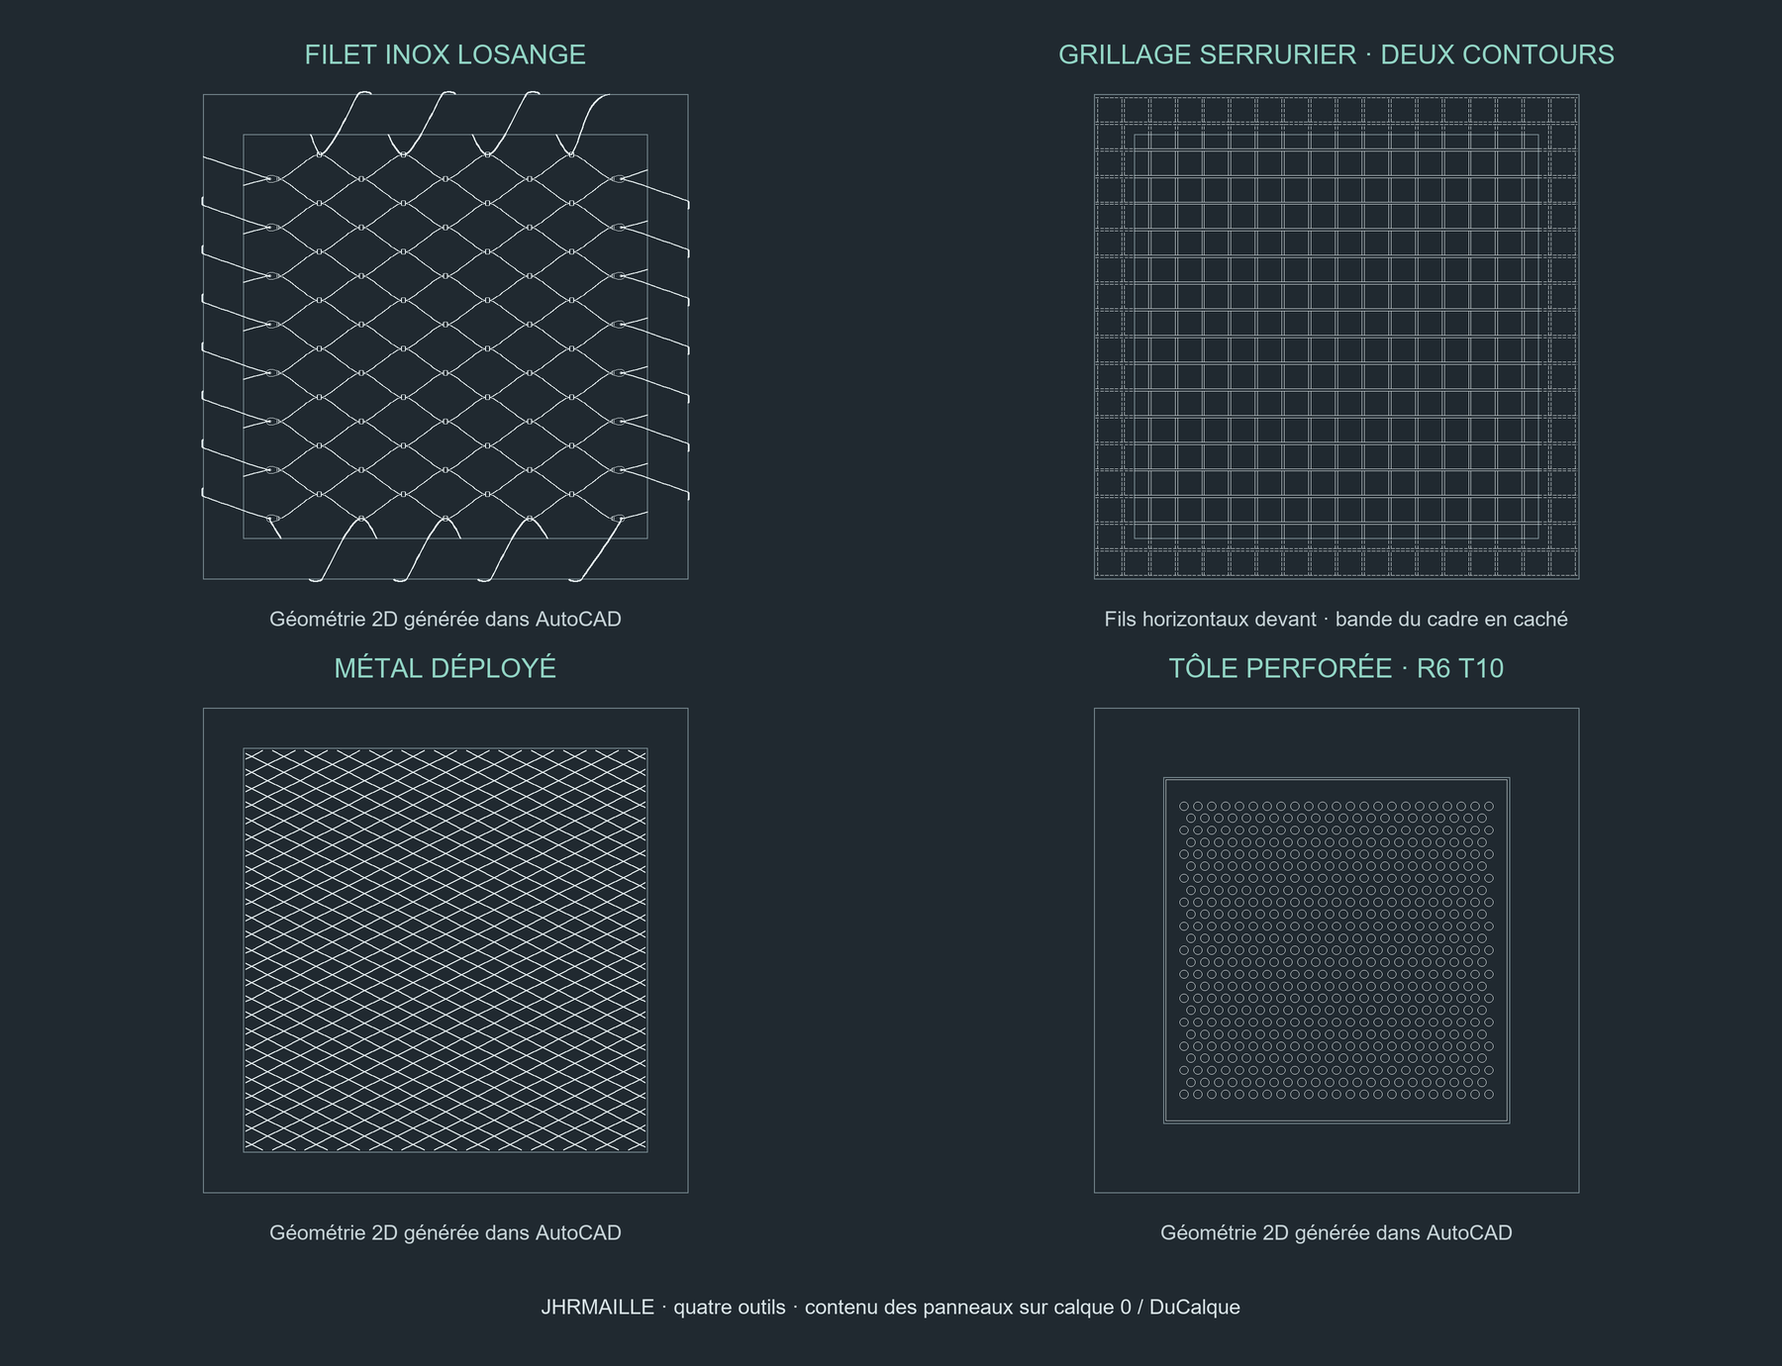
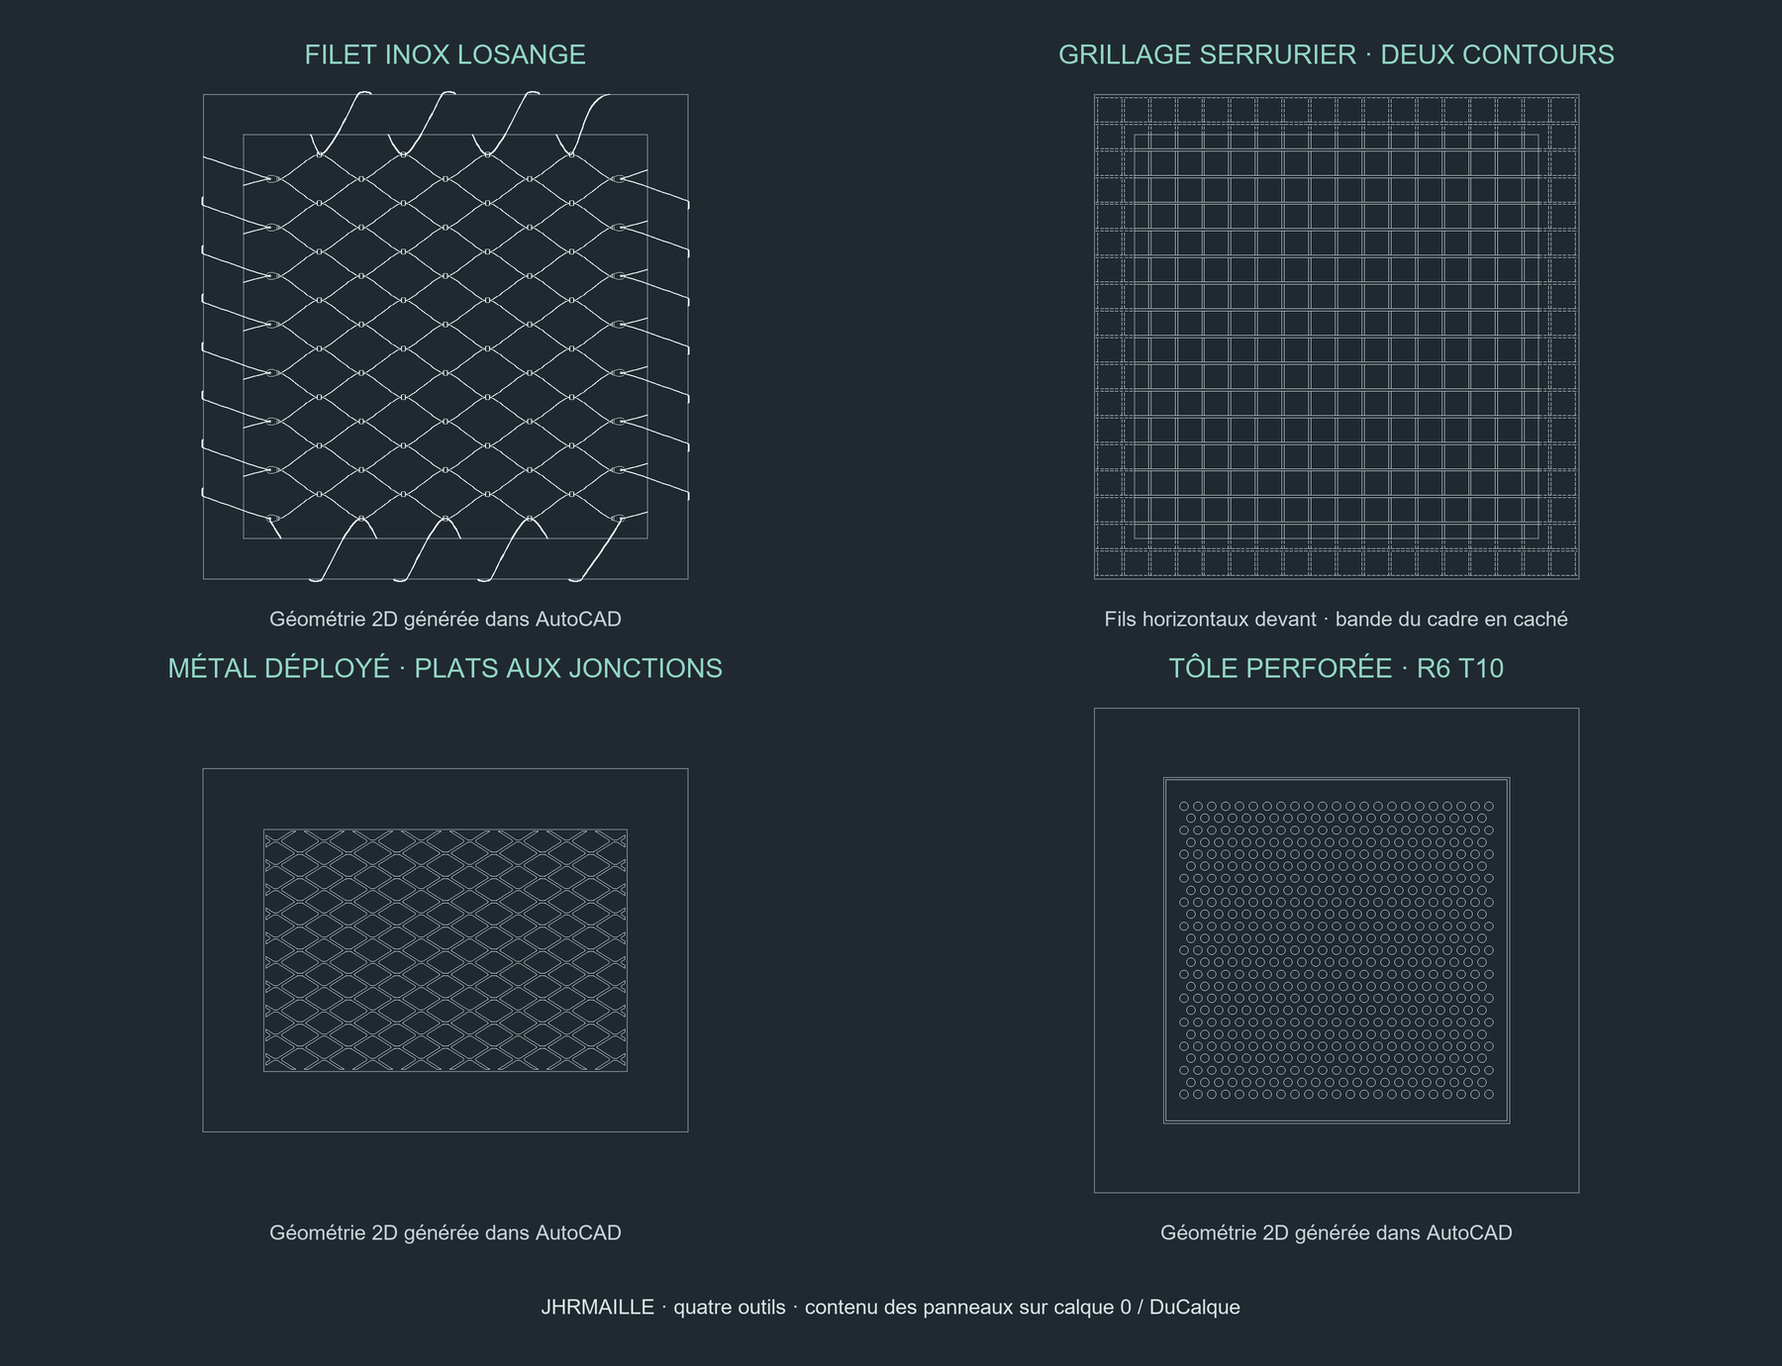
Corrige le metal deploye avec plats de jonction et contours adoucis

Changed region(s): [[0.1244, 0.5297, 0.3733, 0.8413], [0.0933, 0.4674, 0.4044, 0.4986]]

diff --git a/JHRMaille2D/Interface/ExpandedGeometry.cs b/JHRMaille2D/Interface/ExpandedGeometry.cs
@@ -1,0 +1,57 @@
+namespace JhrMailleUi;
+public readonly record struct ExpandedPoint(double X,double Y)
+{
+ public static ExpandedPoint operator +(ExpandedPoint a,ExpandedPoint b)=>new(a.X+b.X,a.Y+b.Y);
+ public static ExpandedPoint operator -(ExpandedPoint a,ExpandedPoint b)=>new(a.X-b.X,a.Y-b.Y);
+ public static ExpandedPoint operator *(ExpandedPoint a,double t)=>new(a.X*t,a.Y*t);
+ public double Length=>Math.Sqrt(X*X+Y*Y);
+ public PointF Pixel(float scale)=>new((float)X*scale,(float)Y*scale);
+}
+public static class ExpandedGeometry
+{
+ public static double Bond(PatternSettings s)=>s.Margin>0?s.Margin:Math.Min(.35*s.A,Math.Max(2*s.Wire,Math.Min(.12*s.A,.25*s.B)));
+ static double Cross(ExpandedPoint a,ExpandedPoint b)=>a.X*b.Y-a.Y*b.X;
+ public static ExpandedPoint[] Hole(PatternSettings s)
+ {
+  double sx=s.A/2,sy=s.B/2,half=Bond(s)/2;
+  ExpandedPoint[] points=[new(-(sx-half),0),new(-half,sy),new(half,sy),new(sx-half,0),new(half,-sy),new(-half,-sy)];
+  Array.Reverse(points);
+  var lines=points.Select((p,i)=>{
+   var d=points[(i+1)%points.Length]-p;var n=new ExpandedPoint(-d.Y,d.X)*(s.Wire/2/d.Length);
+   return (P:p+n,D:d);
+  }).ToArray();
+  var inset=new ExpandedPoint[points.Length];
+  for(int i=0;i<points.Length;i++){
+   var previous=lines[(i+lines.Length-1)%lines.Length];var current=lines[i];
+   double t=Cross(current.P-previous.P,current.D)/Cross(previous.D,current.D);
+   inset[i]=previous.P+previous.D*t;
+  }
+  var rounded=new List<ExpandedPoint>();
+  for(int i=0;i<inset.Length;i++){
+   var cur=inset[i];var incoming=inset[(i+inset.Length-1)%inset.Length]-cur;var outgoing=inset[(i+1)%inset.Length]-cur;
+   double offset=Math.Min(.65*s.Wire,Math.Min(.2*incoming.Length,.2*outgoing.Length));
+   var a=cur+incoming*(offset/incoming.Length);var b=cur+outgoing*(offset/outgoing.Length);
+   for(int j=0;j<=4;j++){double t=j/4d;rounded.Add(a*((1-t)*(1-t))+cur*(2*t*(1-t))+b*(t*t));}
+  }
+  return rounded.ToArray();
+ }
+ public static void Paint(Graphics g,Rectangle view,PatternSettings s,float scale)
+ {
+  var extent=new RectangleF(-view.Width-view.Height,-view.Width-view.Height,2*(view.Width+view.Height),2*(view.Width+view.Height));
+  using var path=new System.Drawing.Drawing2D.GraphicsPath(System.Drawing.Drawing2D.FillMode.Alternate);path.AddRectangle(extent);
+  var holes=new List<PointF[]>();var shape=Hole(s);float sx=(float)s.A*scale/2,sy=(float)s.B*scale/2;
+  int cols=(int)Math.Ceiling((view.Width+view.Height)/sx)+2,rows=(int)Math.Ceiling((view.Width+view.Height)/sy)+2;
+  if((long)(2*cols+1)*(2*rows+1)>9000){using var f=new Font("Segoe UI",10);using var b=new SolidBrush(Color.DimGray);g.DrawString("Maille très allongée : aperçu de détail indisponible.",f,b,-view.Width/2f+20,0);return;}
+  // Close material preview: centre pitches remain exact even when the detail is cropped.
+  for(int row=-rows;row<=rows;row++)for(int col=-cols;col<=cols;col++){
+   if((row+col)%2==0)continue;
+   var hole=shape.Select(p=>new PointF((float)p.X*scale+col*sx,(float)p.Y*scale+row*sy)).ToArray();
+   path.AddPolygon(hole);holes.Add(hole);
+  }
+  using var background=new SolidBrush(Color.FromArgb(20,25,25));g.FillRectangle(background,extent);
+  using var metal=new System.Drawing.Drawing2D.LinearGradientBrush(extent,Color.FromArgb(205,212,210),Color.FromArgb(124,135,132),35);g.FillPath(metal,path);
+  using var edge=new Pen(Color.FromArgb(s.Pattern==1?102:147,158,154),Math.Max(.7f,scale*.12f));
+  using var highlight=new Pen(Color.FromArgb(213,222,218),Math.Max(.6f,scale*.08f));
+  foreach(var hole in holes){g.DrawPolygon(edge,hole);if(s.Pattern==1)for(int i=0;i<hole.Length;i++){var a=hole[i];var b=hole[(i+1)%hole.Length];if(b.X>a.X)g.DrawLine(highlight,new PointF(a.X-.6f,a.Y-.6f),new PointF(b.X-.6f,b.Y-.6f));}}
+ }
+}

diff --git a/JHRMaille2D/Interface/PatternPreview.cs b/JHRMaille2D/Interface/PatternPreview.cs
@@ -13,7 +13,7 @@ public static class PatternRenderer
 {
     public static string Designation(FillTool tool,PatternSettings s)=>tool switch{
         FillTool.Square=>$"Grillage soudé {s.A:g} × {s.A:g} mm libre · fil Ø{s.Wire:g} · entraxe {s.A+s.Wire:g} mm",
-        FillTool.Expanded=>$"Déployé ML {s.A:g} × MW {s.B:g} · lanière {s.Wire:g} · ép. {s.Thickness:g} mm",
+        FillTool.Expanded=>$"Déployé ML {s.A:g} × MW {s.B:g} · lanière {s.Wire:g} · plat {ExpandedGeometry.Bond(s):g} · ép. {s.Thickness:g} mm",
         _=>$"{(s.Pattern==2?"C":"R")}{s.A:g} {(s.Pattern==1?"T":"U")}{s.B:g} · ép. {s.Thickness:g} · bordure ≥ {s.Margin:g} mm"};
     public static void Paint(Graphics g,Rectangle view,FillTool tool,PatternSettings s,bool dimensions=false)
     {
@@ -22,7 +22,7 @@ public static class PatternRenderer
         float scale=(float)Math.Min((view.Width-45)/(tool==FillTool.Expanded?s.A*3.5:(tool==FillTool.Square?(s.A+s.Wire)*4:s.B*7)),(view.Height-45)/(tool==FillTool.Expanded?s.B*5:(tool==FillTool.Square?(s.A+s.Wire)*4:s.B*7)));
         void Metal(PointF a,PointF b,float width,bool relief=false){using var shadow=new Pen(Color.FromArgb(42,45,48),width){LineJoin=LineJoin.Miter};using var bright=new Pen(Color.FromArgb(relief?157:193,198,196),Math.Max(.4f,width*.64f));g.DrawLine(shadow,a,b);g.DrawLine(bright,new PointF(a.X-.5f,a.Y-.5f),new PointF(b.X-.5f,b.Y-.5f));}
         if(tool==FillTool.Square){float pitch=(float)(s.A+s.Wire)*scale,d=(float)s.Wire*scale;for(int k=-7;k<=7;k++)Metal(new(k*pitch,-10000),new(k*pitch,10000),d);for(int k=-7;k<=7;k++)Metal(new(-10000,k*pitch),new(10000,k*pitch),d); }
-        else if(tool==FillTool.Expanded){float sx=(float)s.A*scale/2,sy=(float)s.B*scale/2,d=(float)s.Wire*scale;for(int row=-10;row<=10;row++)for(int col=-10;col<=10;col++){if((row+col)%2!=0)continue;foreach(int sign in new[]{-1,1})Metal(new(col*sx,row*sy),new((col+1)*sx,(row+sign)*sy),d,s.Pattern==1);} }
+        else if(tool==FillTool.Expanded){ExpandedGeometry.Paint(g,view,s,scale);}
         else {
             var r=new RectangleF(-view.Width/2f,-view.Height/2f,view.Width,view.Height);using var metal=new LinearGradientBrush(r,Color.FromArgb(211,214,213),Color.FromArgb(139,145,144),35);g.FillRectangle(metal,r);
             float pitch=(float)s.B*scale,dy=pitch*(s.Pattern==1?.8660254f:1),size=(float)s.A*scale;using var edge=new Pen(Color.FromArgb(97,103,102),Math.Max(.7f,(float)s.Thickness*scale*.1f));using var hole=new SolidBrush(Color.FromArgb(251,251,249));

diff --git a/JHRMaille2D/Interface/PatternPage.cs b/JHRMaille2D/Interface/PatternPage.cs
@@ -33,11 +33,12 @@ public sealed class PatternPage : UserControl
         if(tool!=FillTool.Perforated)Number("wire",tool==FillTool.Square?"Diamètre du fil (mm)":"Largeur projetée de lanière (mm)",s.Wire);
         if(tool!=FillTool.Square)Number("thickness","Épaisseur matière (mm)",s.Thickness);
         Number("gap","Retrait au cadre (mm)",s.Gap,0);
+        if(tool==FillTool.Expanded)Number("margin","Plat de jonction (0 = auto)",s.Margin,0);
         if(tool==FillTool.Perforated)Number("margin","Bordure pleine minimum (mm)",s.Margin,0);
         Number("angle","Orientation (degrés)",s.Angle,-360,360);
         string hint=tool switch{
             FillTool.Square=>"Ouverture libre + diamètre = entraxe des fils.\nUn contour : les fils s’arrêtent sur cette limite.\nDeux contours : arrêt sur le contour extérieur.\nFils horizontaux devant ; verticaux interrompus aux croisements.",
-            FillTool.Expanded=>"ML et MW : diagonales entre axes des nœuds.\nLa lanière indique la largeur visible en projection 2D.\nL’épaisseur est enregistrée dans la désignation.",
+            FillTool.Expanded=>"ML et MW : diagonales entre axes des nœuds.\nLanières continues, plats aux jonctions et angles adoucis.\nPlat 0 : proportion automatique ; sinon longueur en mm.\nL’épaisseur est enregistrée dans la désignation.",
             _=>"T : entraxe triangulaire à 60°. U : trame alignée.\nSeuls les trous entiers sont dessinés ; la bordure reste pleine.\nL’épaisseur est enregistrée dans la désignation."};
         var help=new Label{Text=hint,AutoSize=true,MaximumSize=new(365,0),ForeColor=Color.DimGray,Padding=new(0,16,0,0)};fields.Controls.Add(help,0,row);fields.SetColumnSpan(help,2);
         var side=new TableLayoutPanel{Dock=DockStyle.Fill,RowCount=4,Padding=new(12,0,0,0)};

diff --git a/JHRMaille2D/Interface/Tests/Program.cs b/JHRMaille2D/Interface/Tests/Program.cs
@@ -53,6 +53,15 @@ static class Program
  static void PatternTests(string output)
  {
   var initial=new FillSettings();
+  var expanded=new PatternSettings(40,20,2,1.5);
+  Check(Math.Abs(ExpandedGeometry.Bond(expanded)-4.8)<1e-8,"Déployé : plat automatique proportionné");
+  Check(ExpandedGeometry.Bond(expanded with{Margin=7})==7,"Déployé : longueur de plat personnalisée");
+  Check((expanded with{Margin=20}).Validate(FillTool.Expanded)!=null,"Déployé : plat incompatible refusé");
+  var hole=ExpandedGeometry.Hole(expanded);
+  Check(hole.Length==30&&hole.All(q=>Math.Abs(q.X)<20&&Math.Abs(q.Y)<10),"Déployé : ouverture fermée adoucie dans les diagonales");
+  Check(hole.Zip(hole.Skip(1).Append(hole[0])).Count(pair=>Math.Abs(pair.First.Y-pair.Second.Y)<1e-8&&Math.Abs(pair.First.X-pair.Second.X)>1e-7)>=2,"Déployé : plats horizontaux conservés");
+  File.WriteAllLines(Path.Combine(output,"deploye-coordonnees.csv"),hole.Select(q=>$"{q.X.ToString("R",CultureInfo.InvariantCulture)},{q.Y.ToString("R",CultureInfo.InvariantCulture)}"));
+
   Check(initial.ExtraValues().Length==25,"Contrat des trois nouveaux outils : 25 valeurs");
   Check((initial.Perforated with{A=10}).Validate(FillTool.Perforated)!=null,"Perforations jointives refusées");
   Check((initial.Expanded with{Wire=8}).Validate(FillTool.Expanded)!=null,"Lanière trop large refusée");

diff --git a/JHRMaille2D/Interface/FillSettings.cs b/JHRMaille2D/Interface/FillSettings.cs
@@ -8,7 +8,7 @@ public sealed record PatternSettings(double A,double B,double Wire,double Thickn
         if(Values().Any(x=>!double.IsFinite(x)))return "Saisir des nombres finis.";
         if(A<=0||B<=0||Wire<=0||Thickness<=0||Gap<0||Margin<0||Math.Abs(Angle)>360)return "VÃ©rifier les dimensions positives, le retrait et lâ€™orientation.";
         if(tool==FillTool.Square && (Pattern is <0 or >2 || Wire>=A))return "Le diamÃ¨tre du fil doit Ãªtre infÃ©rieur Ã  lâ€™ouverture libre.";
-        if(tool==FillTool.Expanded && (A<B || Wire>=Math.Min(A,B)/3 || Pattern is <0 or >1))return "La grande diagonale doit dÃ©passer la petite ; la laniÃ¨re doit Ãªtre infÃ©rieure au tiers de la petite diagonale.";
+        if(tool==FillTool.Expanded && (A<B || Wire>=Math.Min(A,B)/3 || Margin>=A/2 || Pattern is <0 or >1))return "La grande diagonale doit dÃ©passer la petite ; la laniÃ¨re doit Ãªtre infÃ©rieure au tiers de la petite diagonale.";
         if(tool==FillTool.Perforated && (A>=B || Pattern is <0 or >2))return "Le trou doit Ãªtre plus petit que son entraxe.";
         return null;
     }

diff --git a/JHRMaille2D/Interface/Plugin.cs b/JHRMaille2D/Interface/Plugin.cs
@@ -5,7 +5,7 @@ using AcApp=Autodesk.AutoCAD.ApplicationServices.Application;
 namespace JhrMailleUi;
 public static class Plugin
 {
-    [LispFunction("jhr:maille-dialog-v131")]
+    [LispFunction("jhr:maille-dialog-v132")]
     public static ResultBuffer Dialog(ResultBuffer args)
     {
         try
@@ -31,6 +31,6 @@ public static class Plugin
             return new ResultBuffer(new TypedValue((int)LispDataType.Nil));
         }
     }
-    [LispFunction("jhr:maille-ui-version-v131")]
-    public static string Version(ResultBuffer args)=>"1.3.1";
+    [LispFunction("jhr:maille-ui-version-v132")]
+    public static string Version(ResultBuffer args)=>"1.3.2";
 }

diff --git a/JHRMaille2D/README.md b/JHRMaille2D/README.md
@@ -1,17 +1,19 @@
-# JHRMAILLE 1.3.1 — panneaux de remplissage en 2D
+# JHRMAILLE 1.3.2 — panneaux de remplissage en 2D
 
 Commande AutoLISP avec une interface commune pour créer des panneaux : **filet inox losange**, **grillage serrurier à maille carrée**, **métal déployé** et **tôle perforée**. Chaque outil possède ses réglages et son aperçu. Le filet conserve les références Jakob Webnet et son laçage adapté au cadre.
 
-![Interface des quatre outils](Apercu_interface.png)
+![Interface JHRMAILLE](Apercu_interface.png)
 
-![Panneaux générés dans AutoCAD](Apercu_panneaux.png)
+![Les quatre panneaux](Apercu_panneaux.png)
+
+![Détail du déployé corrigé](Apercu_deploye.png)
 
 ## Installation
 
-Télécharger le dossier complet **JHRMaille2D** du dépôt, ou l’archive du dépôt : le LISP seul ne contient pas l’interface. Les deux fichiers nécessaires sont `JHR_Maille_2D.lsp` et `JhrMailleUi_v1_3_1.dll`.
+Télécharger le dossier complet **JHRMaille2D** du dépôt, ou l’archive du dépôt : le LISP seul ne contient pas l’interface. Les deux fichiers nécessaires sont `JHR_Maille_2D.lsp` et `JhrMailleUi_v1_3_2.dll`.
 
 1. Dans AutoCAD pour Windows, charger `JHR_Maille_2D.lsp` avec **APPLOAD**.
-2. Charger `JhrMailleUi_v1_3_1.dll` avec **NETLOAD**. Cette étape n’est pas nécessaire si le dossier est déjà dans les chemins de recherche et que le LISP trouve la DLL automatiquement.
+2. Charger `JhrMailleUi_v1_3_2.dll` avec **NETLOAD**. Cette étape n’est pas nécessaire si le dossier est déjà dans les chemins de recherche et que le LISP trouve la DLL automatiquement.
 3. Respecter les règles de sécurité de l’installation. L’outil ne modifie pas SECURELOAD ou TRUSTEDPATHS.
 4. Lancer **JHRMAILLEPARAM** pour vérifier que la fenêtre s’ouvre, puis **JHRMAILLE** pour créer un panneau.
 
@@ -63,7 +65,9 @@ Les traits cachés utilisent le type de ligne local **JHR_CACHE**, motif 4 mm / 
 
 ## Métal déployé
 
-Régler la **grande diagonale ML**, la **petite diagonale MW**, la **largeur visible de lanière en projection**, l’épaisseur et l’orientation. ML/MW décrivent les diagonales entre axes des nœuds, avant rotation. Le dessin est une projection générique de lanières losangées, découpée suivant le contour intérieur et le retrait demandé.
+Régler la **grande diagonale ML**, la **petite diagonale MW**, la **largeur visible de lanière en projection**, l’épaisseur et l’orientation. ML/MW décrivent les diagonales entre axes des nœuds, avant rotation. Le dessin est une projection générique de lanières continues, reliées par de petits plats aux jonctions et des angles adoucis. Les contours des ouvertures sont dessinés sans largeur de polyligne ; il n’y a plus de croisements en X de traits épais. La découpe suit le contour intérieur et le retrait demandé ; les ouvertures coupées par le bord restent ouvertes.
+
+Le champ **Plat de jonction (0 = auto)** règle la longueur du plat entre les branches. À 0, la longueur est proportionnée aux diagonales et à la largeur de lanière : `min(0,35 × ML ; max(2 × lanière ; min(0,12 × ML ; 0,25 × MW)))`. Exemple : ML40 / MW20 / lanière2 → plat4,8 mm. Une valeur positive fixe la longueur en millimètres ; elle doit être inférieure à ML/2. Les petits arrondis sont déduits de la lanière et des longueurs disponibles, par approximation en segments. Ces formes reprennent le principe de l’image de référence de l’utilisateur ; les rayons et plats automatiques ne sont pas des cotes certifiées d’un fabricant.
 
 **Aplati** et **en relief** ont la même géométrie de face 2D ; l’aperçu et la désignation différencient l’aspect. L’épaisseur est conservée dans les données du panneau ; elle ne crée pas une géométrie 3D ni une coupe d’épaisseur.
 
@@ -128,3 +132,6 @@ Validation du 10 octobre 2026 : compilation sans avertissement ; les 202 référ
 Validation complémentaire du 11 octobre 2026 : compilation sans avertissement ; quatre pages testées, paramètres conservés en navigation, trois modes de sélection du grillage ; 17 panneaux natifs sur rectangles, trapèzes, contours concaves et motifs tournés. Contrôle des deux bords des fils, des interruptions aux croisements et de la bande en traits cachés ; diamètre et pas des perforations, 5 691 centres de trous avec leur bordure minimale ; 12 369 composants audités sur calque 0 avec couleur et épaisseur DuCalque. Création par les commandes complètes et annulation en une étape pour chacun des trois nouveaux outils et les trois modes du grillage ; dimensions de nom après retrait vérifiées. Les motifs trop denses et les bordures impossibles sont refusés sans objets résiduels. Tous les essais ont utilisé des dessins séparés.
 
 Limite pour les nouveaux outils : **15 000 positions de trame examinées**. Diviser un grand panneau ou augmenter le pas si cette limite est atteinte. Le grillage à deux bords et la tôle perforée détaillée créent davantage d’entités qu’une représentation schématique.
+
+
+Correction 1.3.2 du 11 octobre 2026 : métal déployé redessiné avec plats de jonction, contours continus et raccords adoucis, à partir de l’image fournie. L’aperçu .NET et le contour AutoLISP ont 30 points identiques à 10⁻¹⁰ mm près pour le cas ML40 / MW20 / lanière2. Six panneaux natifs vérifiés : automatique, plat7, trapèze, concave, rotation17°, relief60×30. Tous les sommets des contours restent dans le panneau source ; 6 534 polylignes auditées sans largeur et sur calque0 / DuCalque. Commande complète, désignation avec plat, annulation en une étape et refus des plats incompatibles / motifs trop denses validés. Les trois autres outils et les références Jakob sont conservés.

diff --git a/JHRMaille2D/Interface/VALIDATION_DEPLOYE.md b/JHRMaille2D/Interface/VALIDATION_DEPLOYE.md
@@ -1,0 +1,12 @@
+# Métal déployé — correction 1.3.2, 11 octobre 2026
+
+- Compilation .NET10 / AutoCAD2027 : 0 erreur, 0 avertissement. Les tests des quatre pages et des 202 références Jakob restent valides.
+- Nouvelle forme : ouvertures à plats de jonction, raccords adoucis, lanières continues. Paramètres de plat : automatique ou longueur en mm. Plus de croisement X entre traits épais.
+- Comparaison exacte des coordonnées du contour dans le renderer .NET et dans AutoLISP : 30 points, écart maximal inférieur à 1e-10 mm, cas ML40 / MW20 / lanière2.
+- Six panneaux natifs : auto, plat7, trapèze, concave, tourné17°, relief60×30. Toutes les sources sont conservées.
+- Découpe : tous les sommets du résultat sont dans le contour cible. Le matériau est coupé au bord, sans ligne bouchant les ouvertures.
+- 6 534 polylignes auditées : largeur0, calque0, couleur et épaisseur DuCalque. Les propriétés absentes dans le DXF correspondent aux valeurs par défaut et sont acceptées comme telles.
+- Commande complète avec deux contours : un panneau ajouté, désignation et dimensions du nom vérifiées, puis retiré par une seule annulation.
+- Plat incompatible et densité excessive : refus sans objets résiduels. Dessin client préservé ; essais dans un DWG séparé.
+
+L’image de référence sert à la forme du motif, pas aux dimensions d’une référence fabricant. Le plat automatique et les adoucissements sont des conventions de représentation modifiables ; aucun gabarit de fabrication certifié n’est revendiqué.
